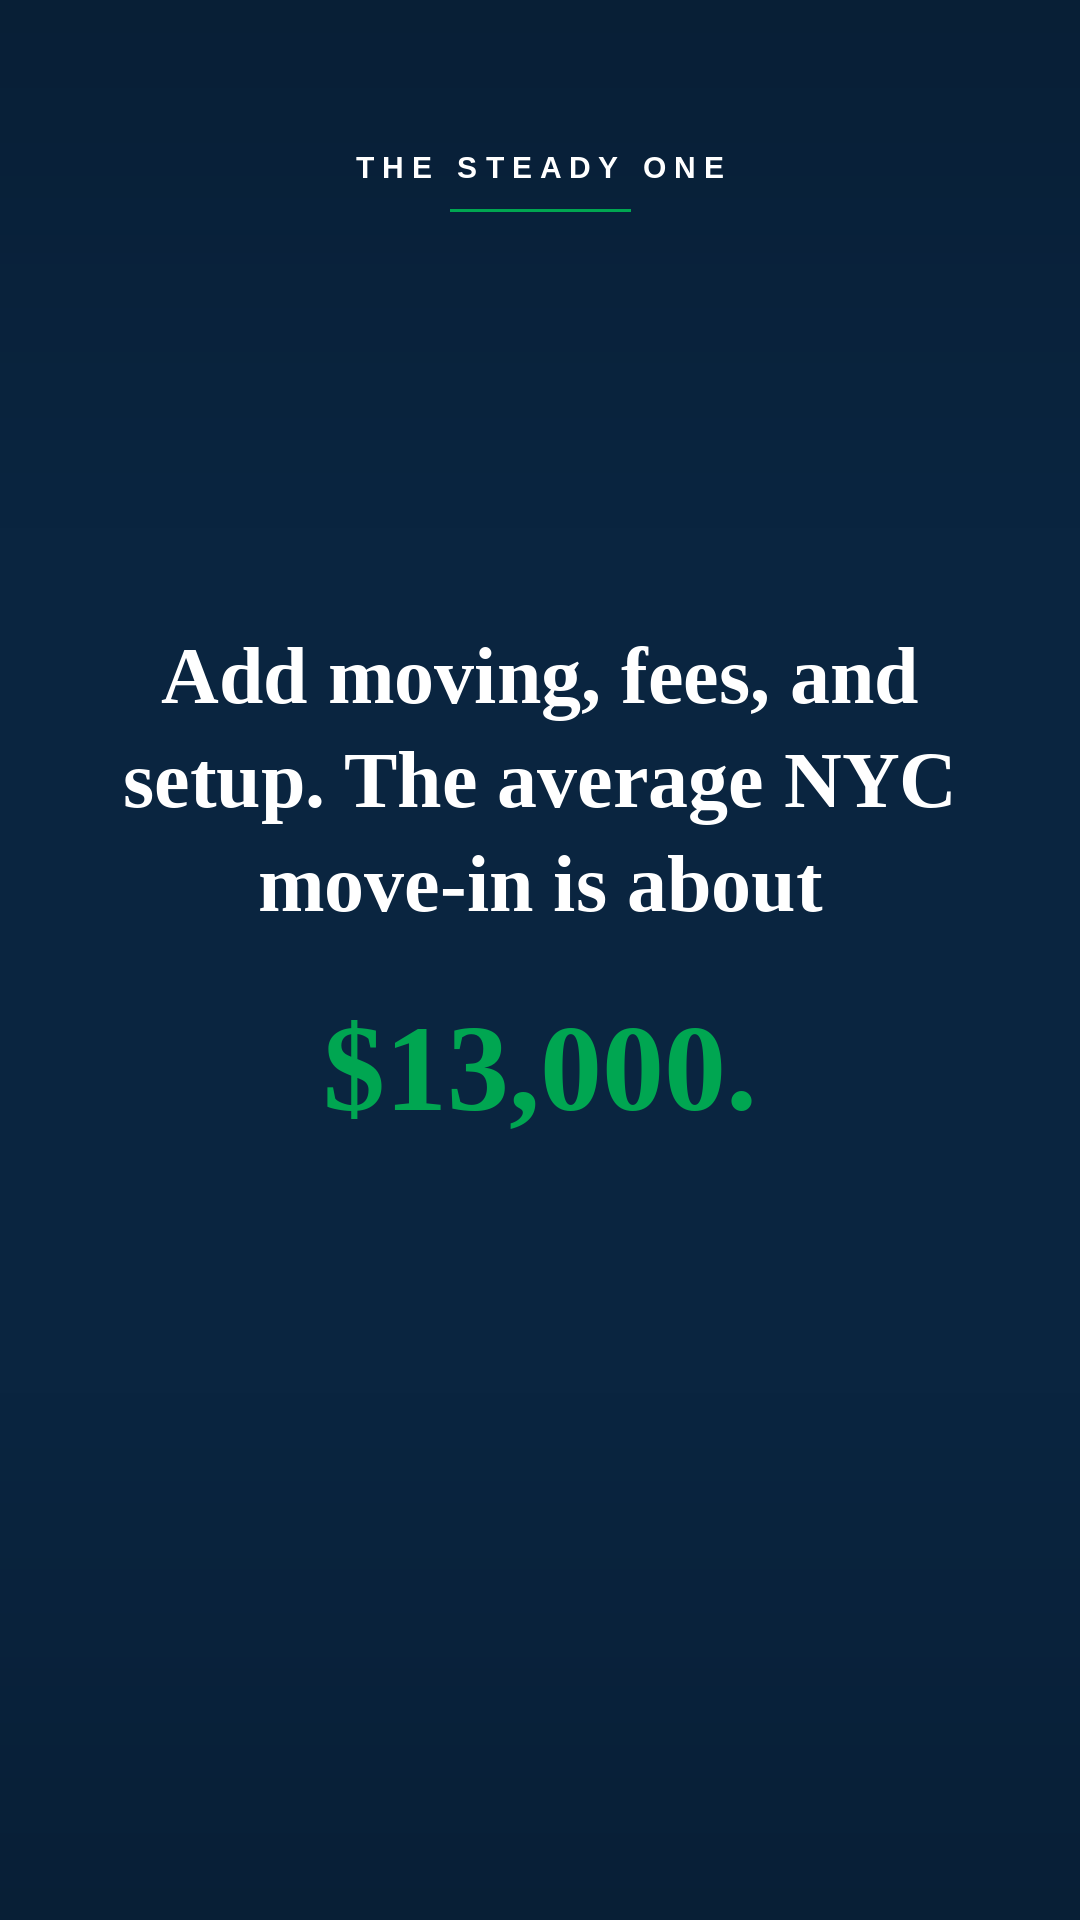
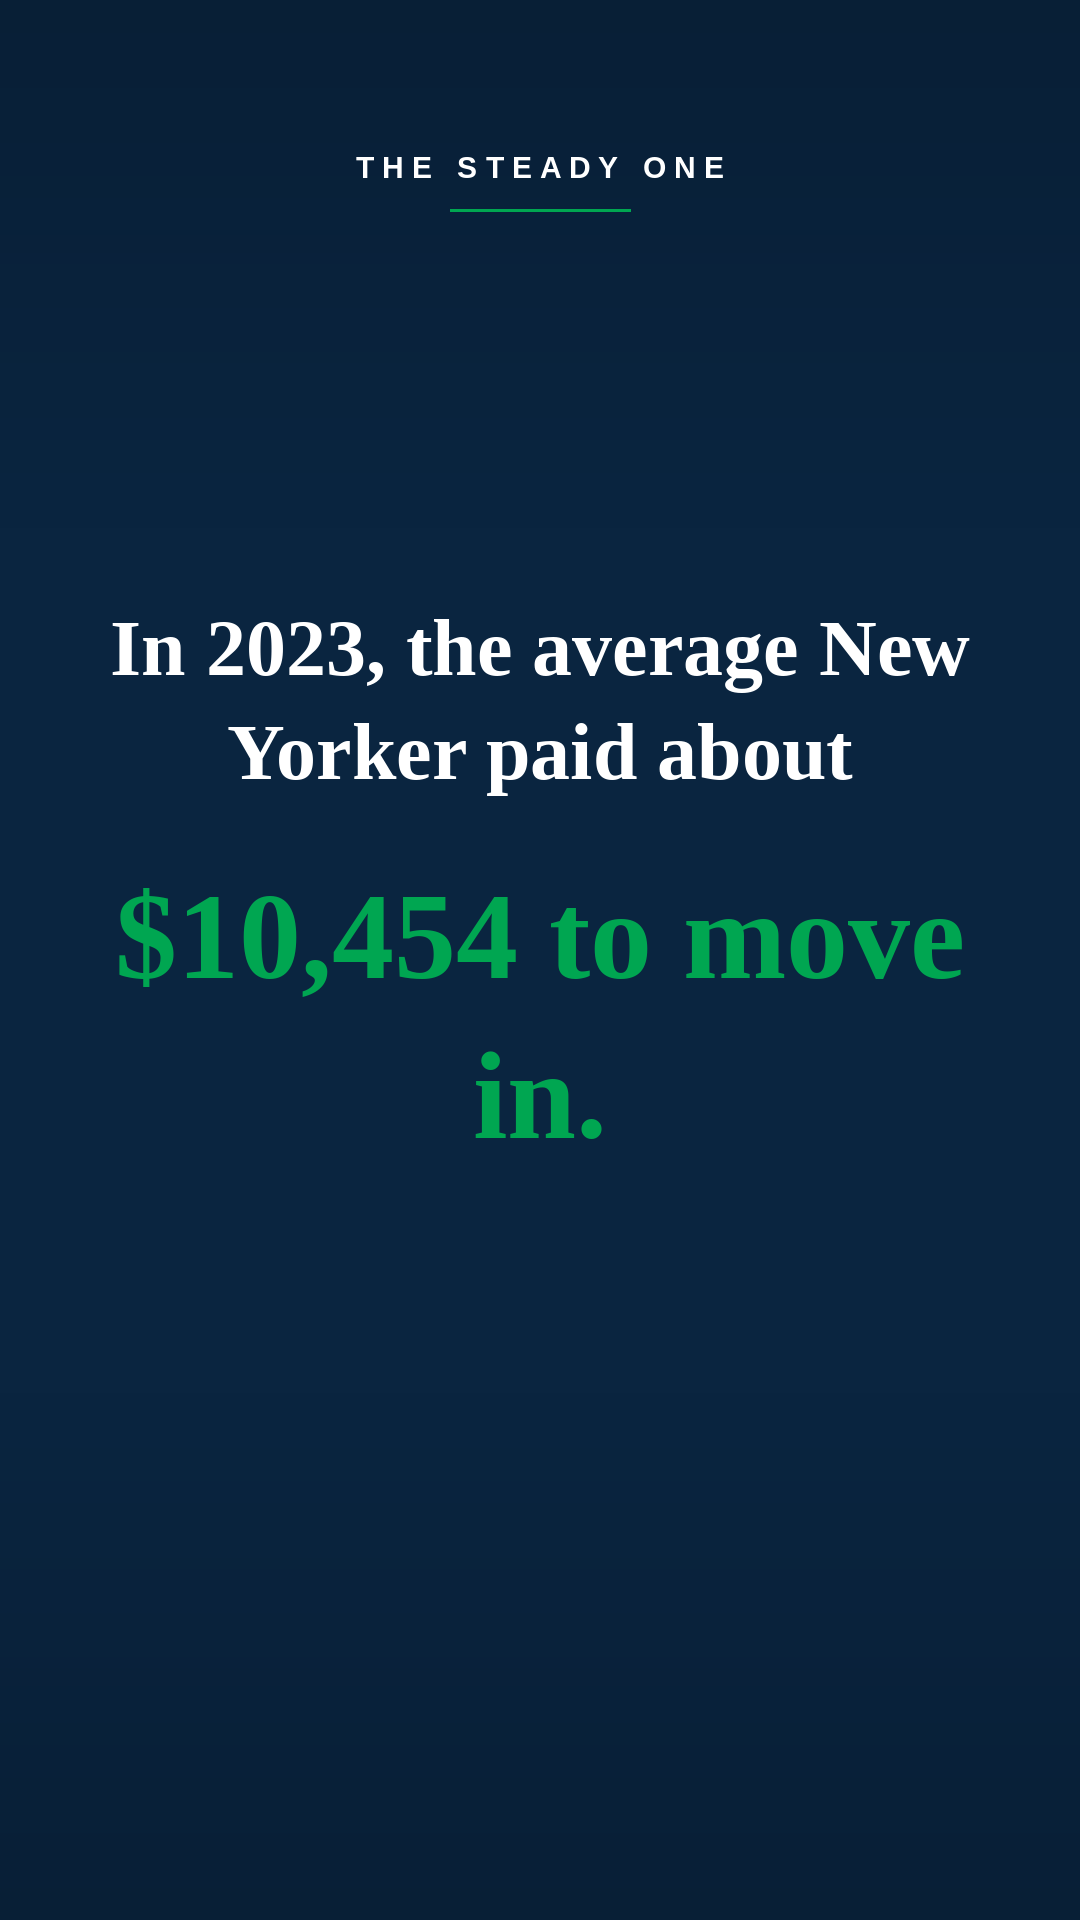
fix(cards): accurate sourced move-in figure ($10,454 StreetEasy 2023)
Troca o '$13,000 average' (so valido com taxa de corretor, inconsistente
pos-FARE) pela media geral citavel da StreetEasy 2023: $10,454.

Changed region(s): [[0.0917, 0.3125, 0.8861, 0.5938]]

diff --git a/scripts/gen_cards.py b/scripts/gen_cards.py
@@ -163,7 +163,7 @@ build("01_movein", [
     lambda p: card_numbers("THE ONLY LEGAL UPFRONT",
         [("First month", "$2,800"), ("Security deposit", "$2,800")],
         "deposit capped at 1 month, by law", "= $5,600 minimum", "before you buy a single fork.", p),
-    lambda p: card_statement("Add moving, fees, and setup. The average NYC move-in is about", p, green_tail="$13,000."),
+    lambda p: card_statement("In 2023, the average New Yorker paid about", p, green_tail="$10,454 to move in."),
     lambda p: card_statement("Most people learn this after they've fallen for the place. That's when you overpay.", p),
     lambda p: card_cta("Know your real move-in number on every place, before you commit.", p),
 ])